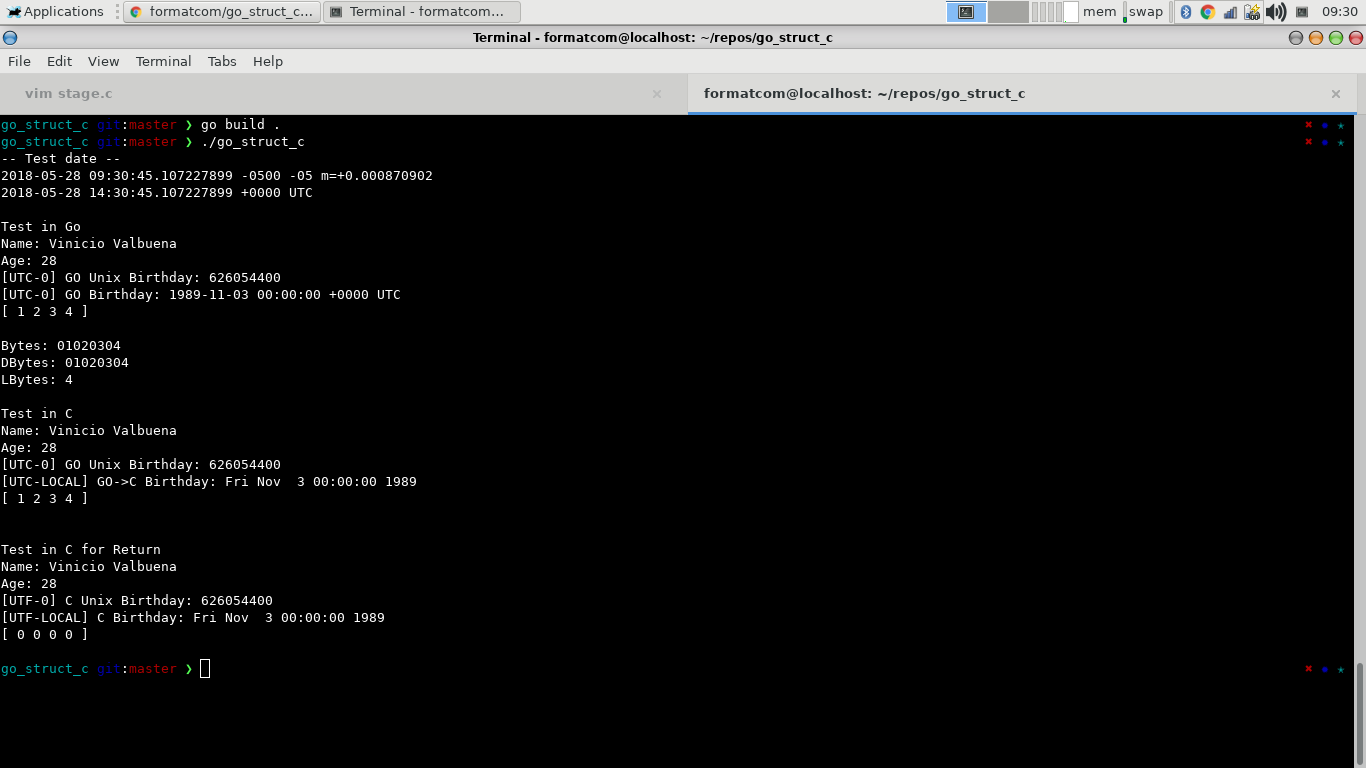
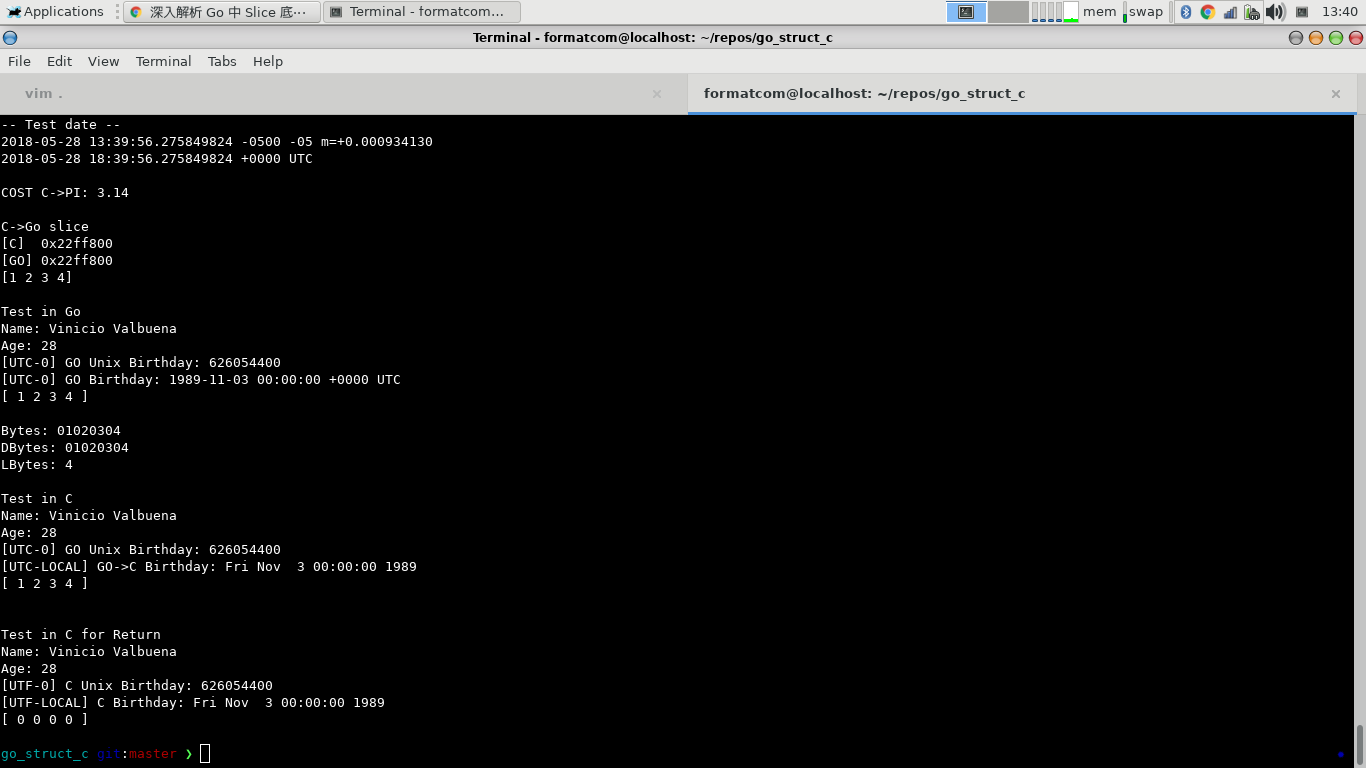
C->GO slice addr

diff --git a/main.go b/main.go
@@ -12,6 +12,13 @@ import (
 // #include "person.h"
 import "C"
 
+// https://golang.org/src/runtime/slice.go
+type slice struct {
+	array unsafe.Pointer
+	len   int
+	cap   int
+}
+
 type Person C.Person
 
 //export GetPerson
@@ -24,7 +31,7 @@ func GetPerson() Person {
 }
 
 func main() {
-	var b [4]byte = [4]byte{1, 2, 3, 4}
+	var b []byte = []byte{1, 2, 3, 4}
 
 	now := time.Now()
 
@@ -48,7 +55,25 @@ func main() {
 
 	defer C.free(unsafe.Pointer(person.Byte))
 
-	C.memcpy(unsafe.Pointer(person.Byte), unsafe.Pointer(&b), person.Length);
+	C.memcpy(unsafe.Pointer(person.Byte), unsafe.Pointer(&b[0]), person.Length);
+
+	// C -> Go slice
+	s := slice{
+		unsafe.Pointer(person.Byte),
+		int(person.Length),
+		int(person.Length),
+	}
+
+	// ref https://halfrost.com/go_slice/
+
+	data := *(*[]byte)(unsafe.Pointer(&s))
+
+	fmt.Println("C->Go slice")
+	fmt.Println("[C] ",person.Byte)
+	fmt.Printf("[GO] %p\n", &data[0])
+	fmt.Println(data)
+	fmt.Println()
+
 
 	fmt.Println("Test in Go")
 	fmt.Printf("Name: %s\n", C.GoString(person.Name))
